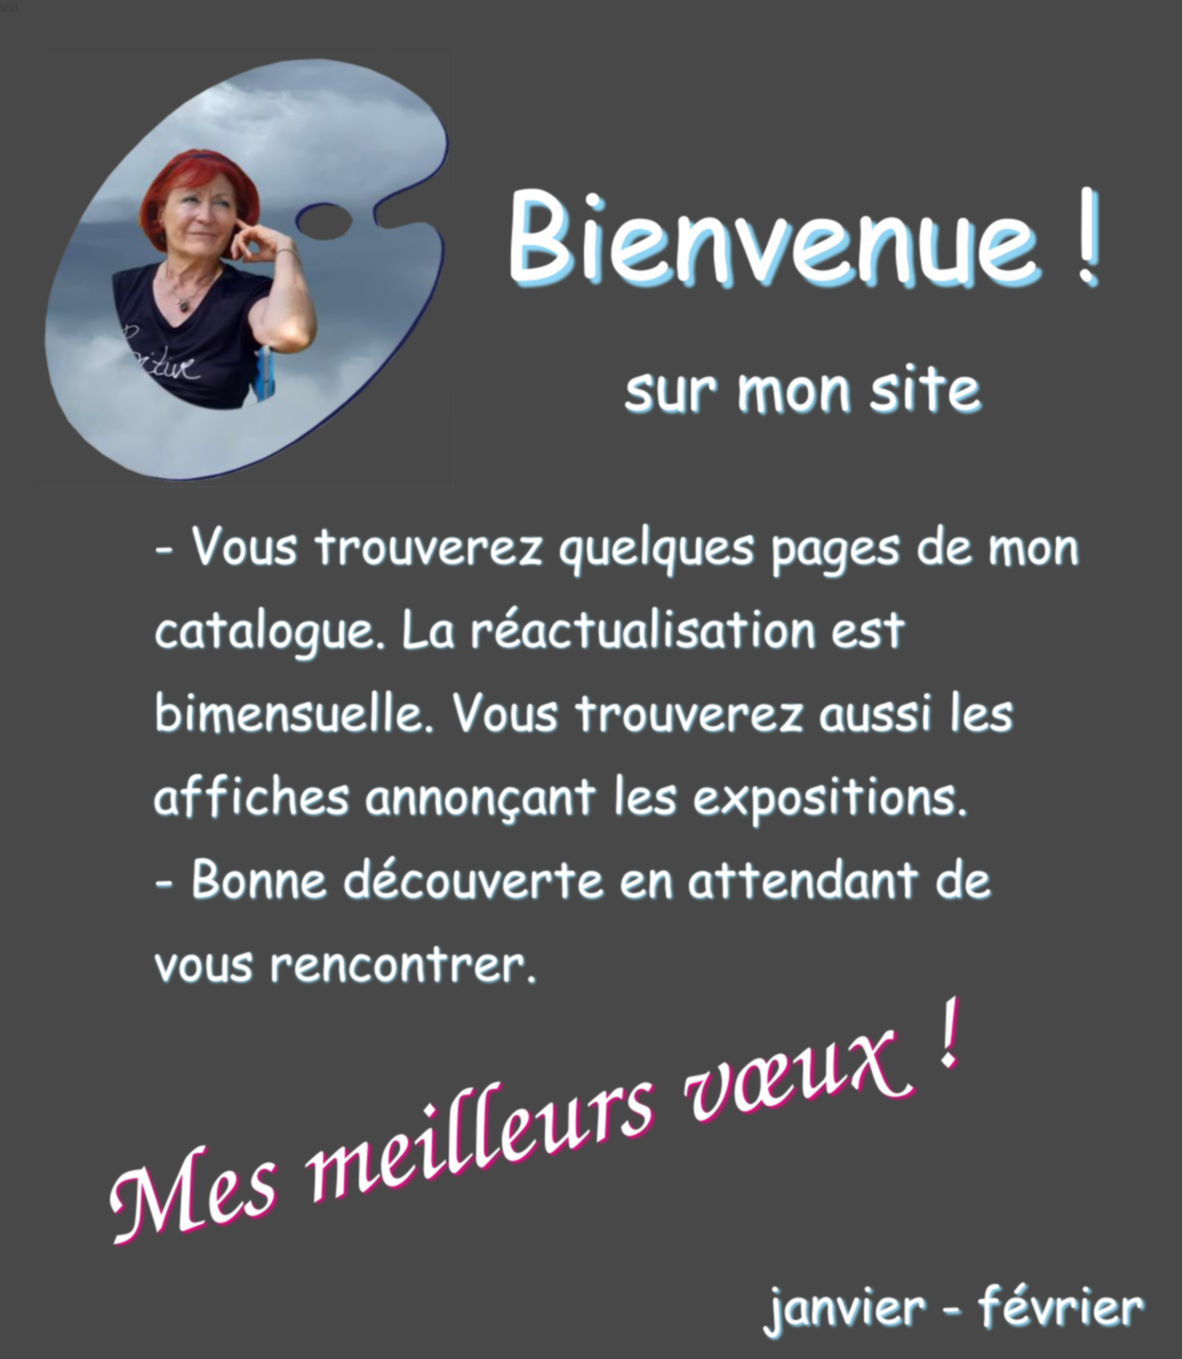
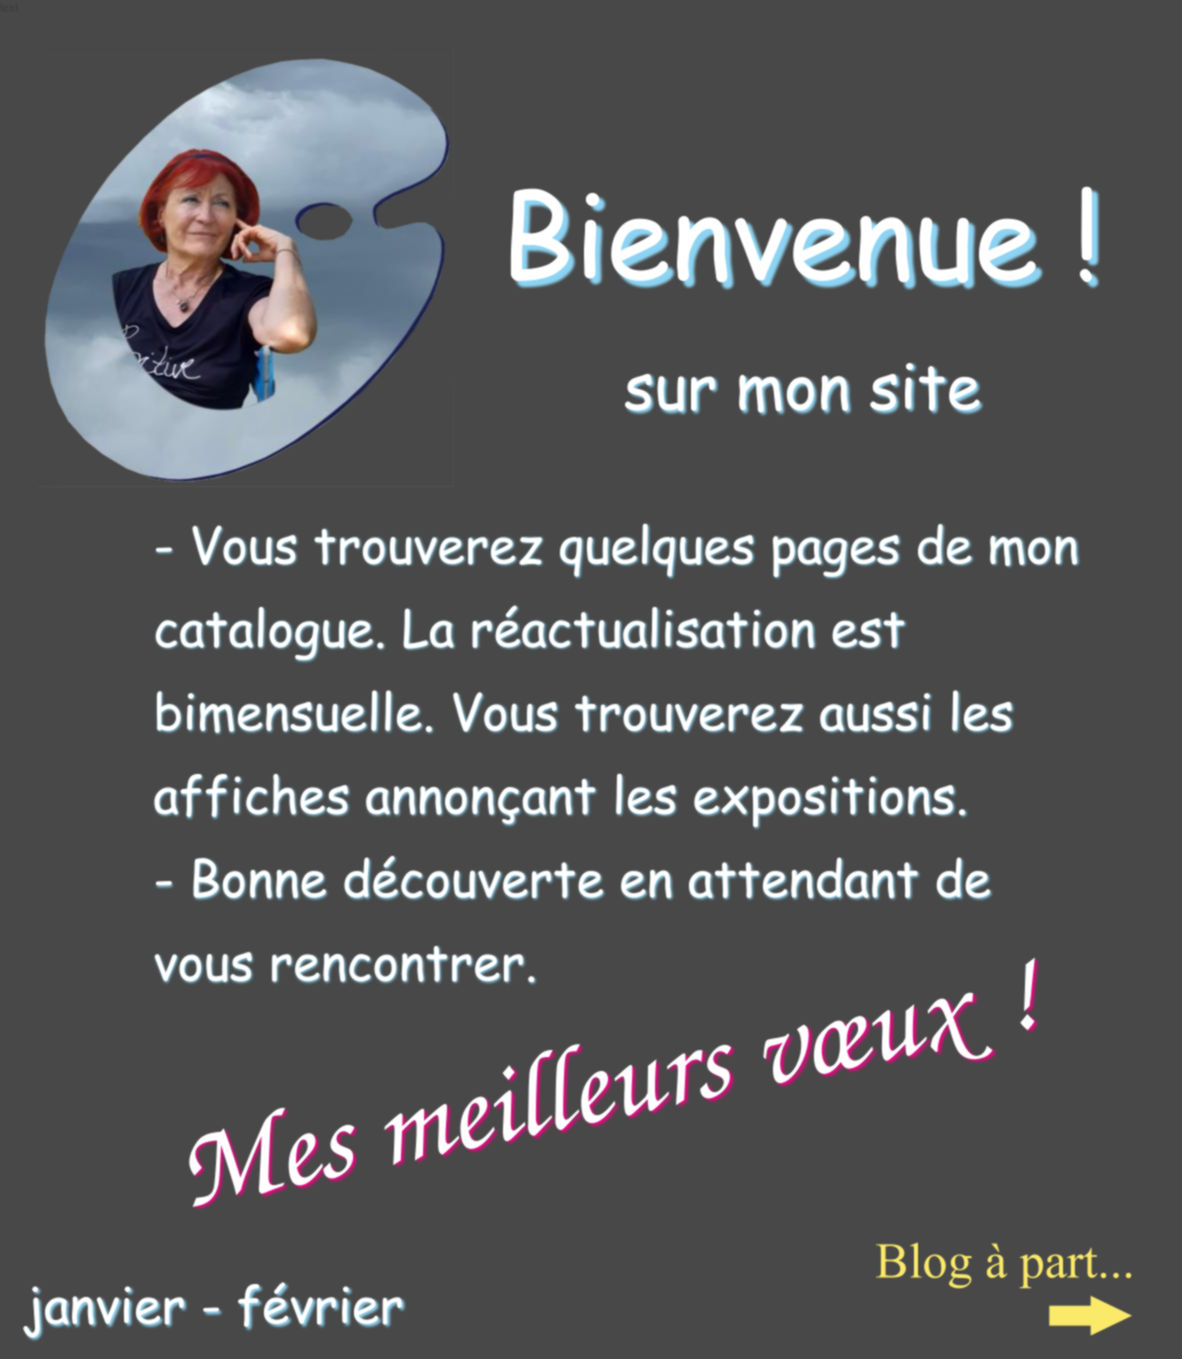
ajout du blog

Changed region(s): [[0.0, 0.7108, 0.8528, 0.989], [0.6396, 0.8962, 0.9746, 0.989], [0.8528, 0.7108, 0.8832, 0.7726]]

diff --git a/content/bienvenue/_index.md b/content/bienvenue/_index.md
@@ -11,4 +11,10 @@ draft: false
 resources:
 - src: "/bienvenue/bienvenue.jpg"
   weight: 10
+- src: "/bienvenue/billet_1.jpg"
+  weight: 20
+- src: "/bienvenue/photos_1.jpg"
+  weight: 30
+- src: "/bienvenue/photos_2.jpg"
+  weight: 40
 ---

diff --git a/content/presentation/_index.md b/content/presentation/_index.md
@@ -13,6 +13,6 @@ resources:
   weight: 10
 - src: "/presentation/presentation.jpg"
   weight: 20
-- src: "/presentation/carte_visite_avec_cadre1.jpg"
+- src: "/presentation/carte_visite_avec_cadre9.jpg"
   weight: 30
 ---
